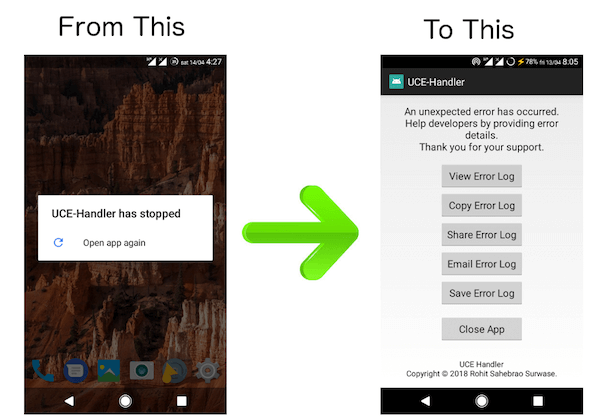
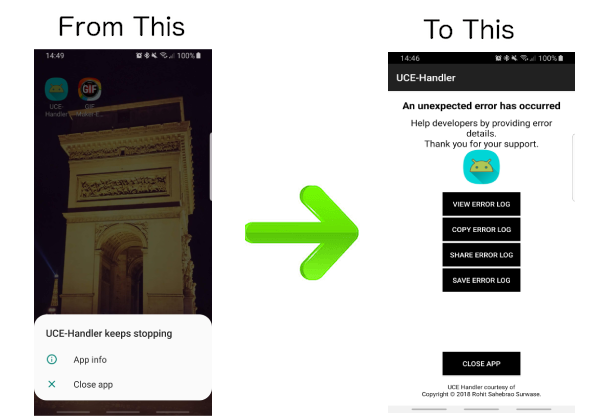
Updated Readme and art work

diff --git a/README.md b/README.md
@@ -51,7 +51,7 @@ In your Project's build.gradle file:
 In your Application's or Module's build.gradle file:
 
 	dependencies {
-	        implementation 'com.github.jampez77:UCE-Handler:uce_handler:1.4.3'
+	        implementation 'com.github.jampez77:UCE-Handler:uce_handler:1.4.4'
 	}
 
 In your Application class:
@@ -99,7 +99,7 @@ In your Application class:
 #### .setCanSaveErrorLog(true/false)
 // default 'true'
 => Choose if you would like 'Save Error Log' button to be shown.
-#### .setBackgroundDrawable(int drawable)
+#### .setIconDrawable(int drawable)
 // default null
 => Choose if you want an icon to be shown below the top text view.
 #### .setBackgroundColour(int color)
